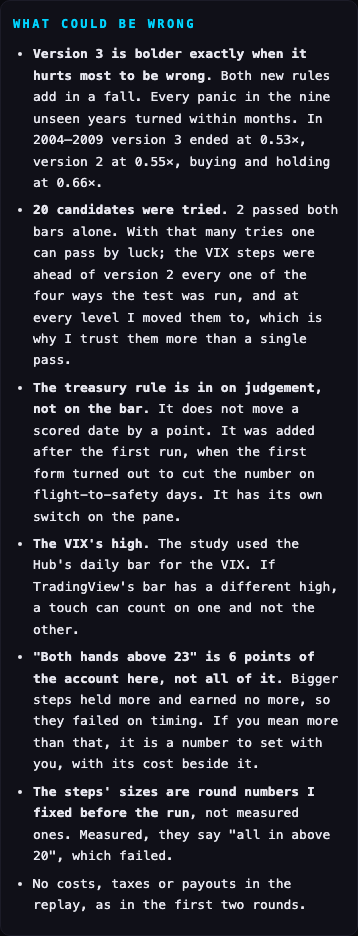
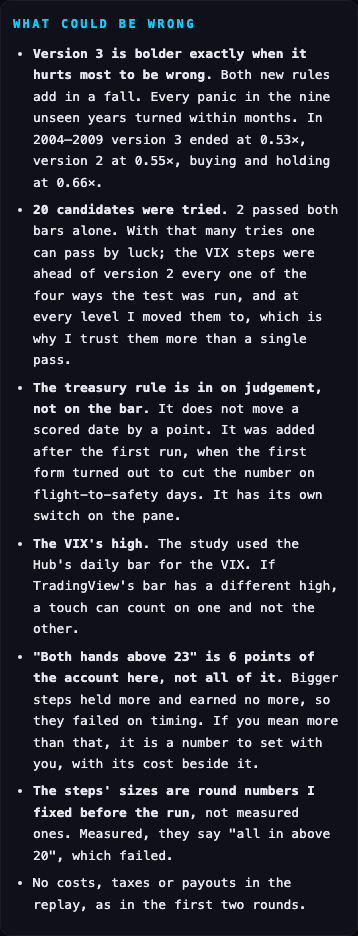
DS3 4 · a third read of the morning, one more test re-pinned to the example account, DS2's task marked superseded
A third stored read (10:01, the regular session) joins 09:05 and 09:32 on the page, in the morning's record and in the pane's proof: study and script agree on all three, and version 3 read what version 2 read at each. The page's pictures are retaken (10:02 New York).

tests/ds1.test.mjs test 20 held the live account to "over 400,000 with something held": it now expects the made-up example, with its reason beside it. DS2's installer task says at its top that version 3 supersedes it and names version 2's file by its new name, so it cannot be sent as it stood.

The whole suite, one file at a time, without the two tests that write a row: 224 run, 219 pass, 5 fail — the same five by name that fail on DS2's untouched branch this morning (two in al8, one in cp3, two in pa5; all from live data).

diff --git a/study/ds3/DS3.html b/study/ds3/DS3.html
@@ -28,7 +28,7 @@ details.sc-pagespecs{margin-top:22px;border:1px solid var(--line);border-radius:
 @media(max-width:700px){.panel{padding:14px 12px}th,td{padding:6px 5px}}
 </style></head><body>
 <h1>THE NUMBER<span class="dot"> ·</span> ROUND 3</h1>
-<div class="sub" id="stamp">the VIX counted by your own rule, depth under the 50- and 100-day, fear in treasuries read as fear · pictures taken 8 Oct 2026, 09:49 New York · on a branch, not on the live tool</div>
+<div class="sub" id="stamp">the VIX counted by your own rule, depth under the 50- and 100-day, fear in treasuries read as fear · pictures taken 8 Oct 2026, 10:02 New York · on a branch, not on the live tool</div>
 
 <section class="panel" id="p-answer"><h2>THE ANSWER FIRST</h2>
 <div class="tiles">
@@ -47,7 +47,7 @@ details.sc-pagespecs{margin-top:22px;border:1px solid var(--line);border-radius:
 <li><b>"We would want it to invest more at those lows" — it does.</b> The March 2026 low goes 95% → <b>100%</b>, the late-March 2025 low 91% → <b>95%</b>, 23 February 2026 83% → <b>90%</b>. December 2025 stays at 79%.</li>
 <li><b>On the years the rule had not seen (2018–2026), tested the way the first two rounds were tested:</b> what 1 became 3.54× → <b>3.62×</b>, worst fall −29.8% → −30.2%, invested on average 82.9% → 85.0%. It was better than version 2 in all four ways the test was run, and in 7 of the 9 years.</li>
 <li><b>What it costs.</b> It is bolder in a fall, so it does worse in a fall that does not turn: through 2008 it ended 3.1% under version 2, and it lost more in 2018 (−0.2 points) and 2022 (−1.8 points). It also moves a little more from day to day: 1.68 points against 1.55.</li>
-<li><b>This morning was not a treasury rally.</b> I measured it twice. At 09:05, before the open, treasuries were <i>down</i> 0.20% on the day and HYG's pre-market quote was down 0.25%; at 09:32, after the open, HYG was down 0.12% and the live number was back at 79%. The dip to 78 you saw at 08:41 was HYG's thin pre-market quote, not treasuries. Details below.</li>
+<li><b>This morning was not a treasury rally.</b> I measured it three times. At 09:05, before the open, treasuries were <i>down</i> 0.20% on the day and HYG's pre-market quote was down 0.25%; at 10:01, after the open, HYG was down 0.09% and the live number was back at 79%. The dip to 78 you saw at 08:41 was HYG's thin pre-market quote, not treasuries. Details below.</li>
 <li><b>Depth under the 50- and 100-day takes both lows to 100%, and is not in.</b> Against version 2 it holds about two points more on average and ends no higher, and it cost 4.4% through 2008. With the VIX counted the two lows already read 95% and 100%.</li>
 </ul></section>
 
@@ -59,11 +59,12 @@ details.sc-pagespecs{margin-top:22px;border:1px solid var(--line);border-radius:
 
 <section class="panel" id="p-morning"><h2>THIS MORNING — WHAT MOVED THE NUMBER FROM 79 TO 78</h2>
 <p>The live tool runs today's rule (version 1). Credit's own move is HYG's move over ten sessions less half the treasury fund's move over the same ten sessions. Each read below is the tool's own read of the market, kept and put through every version.</p>
-<div class="wrap"><table class=""><tr><th>when (New York, 8 Oct)</th><th class="n">HYG on the day</th><th class="n">treasuries on the day</th><th class="n">credit's own move</th><th class="n">today's rule</th><th class="n">version 2</th><th class="n">version 3</th></tr><tr><td>7 Oct, the close</td><td class="n"></td><td class="n"></td><td class="n">−0.14%</td><td class="n">79.1%</td><td class="n">74.6%</td><td class="n">74.6%</td></tr><tr><td>08:41, before the open — as you saw it</td><td class="n">about −0.4% <span class="dim">(worked back from the two figures in the brief)</span></td><td class="n"><span class="dim">not kept</span></td><td class="n">−0.43%</td><td class="n">78%</td><td class="n"><span class="dim">—</span></td><td class="n"><span class="dim">—</span></td></tr><tr><td>09:05, before the open</td><td class="n">−0.25%</td><td class="n">−0.20%</td><td class="n">−0.29%</td><td class="n">78.9%</td><td class="n">74.5%</td><td class="n">74.5%</td></tr><tr><td>09:32, after the open</td><td class="n">−0.12%</td><td class="n">−0.01%</td><td class="n">−0.26%</td><td class="n">79.1%</td><td class="n">74.5%</td><td class="n">74.5%</td></tr></table></div>
+<div class="wrap"><table class=""><tr><th>when (New York, 8 Oct)</th><th class="n">HYG on the day</th><th class="n">treasuries on the day</th><th class="n">credit's own move</th><th class="n">today's rule</th><th class="n">version 2</th><th class="n">version 3</th></tr><tr><td>7 Oct, the close</td><td class="n"></td><td class="n"></td><td class="n">−0.14%</td><td class="n">79.1%</td><td class="n">74.6%</td><td class="n">74.6%</td></tr><tr><td>08:41, before the open — as you saw it</td><td class="n">about −0.4%</td><td class="n"><span class="dim">not kept</span></td><td class="n">−0.43%</td><td class="n">78%</td><td class="n"><span class="dim">—</span></td><td class="n"><span class="dim">—</span></td></tr><tr><td>09:05, before the open</td><td class="n">−0.25%</td><td class="n">−0.20%</td><td class="n">−0.29%</td><td class="n">78.9%</td><td class="n">74.5%</td><td class="n">74.5%</td></tr><tr><td>09:32, after the open</td><td class="n">−0.12%</td><td class="n">−0.01%</td><td class="n">−0.26%</td><td class="n">79.1%</td><td class="n">74.5%</td><td class="n">74.5%</td></tr><tr><td>10:01, after the open</td><td class="n">−0.09%</td><td class="n">+0.02%</td><td class="n">−0.25%</td><td class="n">79.3%</td><td class="n">74.6%</td><td class="n">74.6%</td></tr></table></div>
+<p class="cap">The 08:41 row was not kept: its HYG figure is worked back from the two figures in the brief (credit's own move −0.43%, the treasury half +0.44). The other rows are reads I took and kept.</p>
 <ul>
-<li><b>Treasuries did not rally.</b> The treasury fund was down 0.20% at 09:05 and flat at 09:32. Over the ten sessions it is down 0.65%.</li>
+<li><b>Treasuries did not rally.</b> The treasury fund was down 0.20% at 09:05 and flat at 10:01. Over the ten sessions it is down 0.63%.</li>
 <li><b>Why the treasury half looked as if it had moved.</b> It went from +0.60 to +0.42 because the ten sessions moved on by a day. 24 Sep 2026 dropped out of them, a day treasuries fell 0.55% and HYG fell 0.27%. Losing that day took 0.27 off the treasury half and put 0.27 back on HYG's own. The two cancel.</li>
-<li><b>What was left is HYG's own quote.</b> At 09:05 it was marked 0.25% under yesterday's close; at 09:32, after the open, it was only 0.12% under. Credit's own move sits just under zero, the steepest stretch of its curve, so a quarter of a percent on a thin pre-market quote was worth 1.5 points of the account.</li>
+<li><b>What was left is HYG's own quote.</b> At 09:05 it was marked 0.25% under yesterday's close; at 10:01, after the open, it was only 0.09% under. Credit's own move sits just under zero, the steepest stretch of its curve, so a quarter of a percent on a thin pre-market quote was worth 1.5 points of the account.</li>
 <li><b>Neither new rule would have changed this morning.</b> The VIX is under 20, and treasuries are down over the ten sessions, so there is no rally to set aside. Under versions 2 and 3 the move was −0.1 of a point, because cash has been raised since 13 Aug and the swing is halved.</li>
 </ul>
 <h3>The two days where your reading is right</h3>
@@ -120,7 +121,7 @@ details.sc-pagespecs{margin-top:22px;border:1px solid var(--line);border-radius:
 </section>
 
 <section class="panel" id="p-rec"><h2>THE RECOMMENDED VERSION 3</h2>
-<div class="wrap"><table class=""><tr><th></th><th class="n">version 2 — before</th><th class="n">version 3 — after</th></tr><tr><td>late-March 2025 low — the five sessions · the low itself</td><td class="n">89.1 · 91.4</td><td class="n"><b>90.7 · 95.0</b></td></tr><tr><td>March 2026 low — the five sessions · the low itself</td><td class="n">92.9 · 94.8</td><td class="n"><b>98.6 · 100.0</b></td></tr><tr><td>26 → 30 March 2026</td><td class="n">0.0</td><td class="n"><b>0.0</b></td></tr><tr><td>23 February 2026</td><td class="n">82.9</td><td class="n"><b>90.0</b></td></tr><tr><td>December 2025 · SPY's high of 27 Jan 2026</td><td class="n">78.7 · 77.1</td><td class="n">78.8 · 77.1</td></tr><tr><td>21 July 2025 · 22 September 2025</td><td class="n">71.4 · 70.0</td><td class="n">72.0 · 70.0</td></tr><tr><td>this morning, 09:32</td><td class="n">74.5%</td><td class="n">74.5%</td></tr><tr><td>moves a day</td><td class="n">1.55</td><td class="n">1.68</td></tr><tr><td>days the number was cut on a down day, 23 Feb → 30 Mar 2026 (of 26)</td><td class="n">3 <span class="dim">(today's rule: 7)</span></td><td class="n">2</td></tr><tr class="base"><td><b>unseen 2018–2026:</b> what 1 became</td><td class="n">3.54×</td><td class="n"><b>3.62×</b></td></tr><tr><td>worst fall</td><td class="n">−29.8%</td><td class="n">−30.2%</td></tr><tr><td>invested on average</td><td class="n">82.9%</td><td class="n">85.0%</td></tr><tr><td>timing</td><td class="n">1.10</td><td class="n">1.10</td></tr><tr><td>what 1 became after a charge of 0.05% on every dollar moved</td><td class="n">3.44×</td><td class="n">3.52×</td></tr><tr><td>2004 → March 2009 (it holds 2008)</td><td class="n">0.55×</td><td class="n">0.53×</td></tr></table></div>
+<div class="wrap"><table class=""><tr><th></th><th class="n">version 2 — before</th><th class="n">version 3 — after</th></tr><tr><td>late-March 2025 low — the five sessions · the low itself</td><td class="n">89.1 · 91.4</td><td class="n"><b>90.7 · 95.0</b></td></tr><tr><td>March 2026 low — the five sessions · the low itself</td><td class="n">92.9 · 94.8</td><td class="n"><b>98.6 · 100.0</b></td></tr><tr><td>26 → 30 March 2026</td><td class="n">0.0</td><td class="n"><b>0.0</b></td></tr><tr><td>23 February 2026</td><td class="n">82.9</td><td class="n"><b>90.0</b></td></tr><tr><td>December 2025 · SPY's high of 27 Jan 2026</td><td class="n">78.7 · 77.1</td><td class="n">78.8 · 77.1</td></tr><tr><td>21 July 2025 · 22 September 2025</td><td class="n">71.4 · 70.0</td><td class="n">72.0 · 70.0</td></tr><tr><td>this morning, 10:01</td><td class="n">74.6%</td><td class="n">74.6%</td></tr><tr><td>moves a day</td><td class="n">1.55</td><td class="n">1.68</td></tr><tr><td>days the number was cut on a down day, 23 Feb → 30 Mar 2026 (of 26)</td><td class="n">3 <span class="dim">(today's rule: 7)</span></td><td class="n">2</td></tr><tr class="base"><td><b>unseen 2018–2026:</b> what 1 became</td><td class="n">3.54×</td><td class="n"><b>3.62×</b></td></tr><tr><td>worst fall</td><td class="n">−29.8%</td><td class="n">−30.2%</td></tr><tr><td>invested on average</td><td class="n">82.9%</td><td class="n">85.0%</td></tr><tr><td>timing</td><td class="n">1.10</td><td class="n">1.10</td></tr><tr><td>what 1 became after a charge of 0.05% on every dollar moved</td><td class="n">3.44×</td><td class="n">3.52×</td></tr><tr><td>2004 → March 2009 (it holds 2008)</td><td class="n">0.55×</td><td class="n">0.53×</td></tr></table></div>
 <h3>The same test three other ways</h3>
 <div class="wrap"><table class=""><tr><th>the test</th><th class="n">1 became</th><th class="n">worst fall</th><th class="n">invested</th><th class="n">timing</th></tr><tr><td>fitted to 2015, replayed 2016 on</td><td class="n">4.72× → <b>4.85×</b></td><td class="n">−29.9% → −30.2%</td><td class="n">82.5% → 84.3%</td><td class="n">1.12 → 1.13</td></tr><tr><td>fitted to 2017, replayed 2018 on (the main test)</td><td class="n">3.54× → <b>3.62×</b></td><td class="n">−29.8% → −30.2%</td><td class="n">82.9% → 85.0%</td><td class="n">1.10 → 1.10</td></tr><tr><td>fitted to 2019, replayed 2020 on</td><td class="n">2.76× → <b>2.83×</b></td><td class="n">−30.0% → −30.2%</td><td class="n">82.4% → 84.6%</td><td class="n">1.08 → 1.09</td></tr><tr><td>fitted to 2017 with 2008 left in, replayed 2018 on</td><td class="n">3.60× → <b>3.71×</b></td><td class="n">−26.4% → −28.2%</td><td class="n">82.8% → 85.3%</td><td class="n">1.12 → 1.13</td></tr></table></div>
 <p class="cap">Version 2 → version 3. Ahead in all four. In the fit that kept 2008 in, the worst fall is 1.8 deeper.</p>
@@ -140,7 +141,7 @@ details.sc-pagespecs{margin-top:22px;border:1px solid var(--line);border-radius:
 
 <section class="panel" id="p-pane"><h2>THE TRADINGVIEW PANE — VERSION 3, AND ITS PROOF</h2>
 <p>The script is written and proved; it is <b>not installed</b> and has never met TradingView's compiler. It has one switch per change — four now — so you can scroll with each on and off, and it can draw version 2 and version 1 beside it as thin lines. With version 3's two switches off it draws version 2 exactly.</p>
-<div class="wrap"><table class=""><tr><th>what was set against what</th><th>result</th></tr><tr><td>the study's sum against a hand-written replay of the script, same closes</td><td>the same reading on all <b>4,894</b> days (25 Apr 2007 → 6 Oct 2026); cash raised on the same 1,318 days</td></tr><tr><td>the script's own text, turned into a program by fixed rules</td><td>the same on all 4,894</td></tr><tr><td>the VIX's add and the treasury flag, day by day</td><td>the VIX adds on 2,051 days and a rally raised credit on 1,666; both sides agree on every one</td></tr><tr><td>version 3 with its two switches off against version 2's own script</td><td>identical on all 4,894</td></tr><tr><td>with all four off against version 1's own script</td><td>identical on all 4,894</td></tr><tr><td>the high-yield fund's payouts added back TradingView's way</td><td>within one point on 99.9% of days; worst 2.2 on 28 Nov 2007; 0.5 in the last year</td></tr><tr><td>each raise-cash threshold nudged a hair</td><td>the state would differ on at most 12 of 4,894 days, none in the last year</td></tr><tr><td>the VIX's two levels nudged by five cents</td><td>what the VIX adds would differ on 17 to 27 days, 3 at most in the last year; it moves the number 3.0 points at most on such a day</td></tr><tr><td>this morning, 09:05 New York (pre-market)</td><td>study 14.9, script 14.9; label <b>"Invested 74% · market reading 15 · cash raised"</b></td></tr><tr><td>this morning, 09:32 New York (open)</td><td>study 15.1, script 15.1; label <b>"Invested 75% · market reading 15 · cash raised"</b></td></tr></table></div>
+<div class="wrap"><table class=""><tr><th>what was set against what</th><th>result</th></tr><tr><td>the study's sum against a hand-written replay of the script, same closes</td><td>the same reading on all <b>4,894</b> days (25 Apr 2007 → 6 Oct 2026); cash raised on the same 1,318 days</td></tr><tr><td>the script's own text, turned into a program by fixed rules</td><td>the same on all 4,894</td></tr><tr><td>the VIX's add and the treasury flag, day by day</td><td>the VIX adds on 2,051 days and a rally raised credit on 1,666; both sides agree on every one</td></tr><tr><td>version 3 with its two switches off against version 2's own script</td><td>identical on all 4,894</td></tr><tr><td>with all four off against version 1's own script</td><td>identical on all 4,894</td></tr><tr><td>the high-yield fund's payouts added back TradingView's way</td><td>within one point on 99.9% of days; worst 2.2 on 28 Nov 2007; 0.5 in the last year</td></tr><tr><td>each raise-cash threshold nudged a hair</td><td>the state would differ on at most 12 of 4,894 days, none in the last year</td></tr><tr><td>the VIX's two levels nudged by five cents</td><td>what the VIX adds would differ on 17 to 27 days, 3 at most in the last year; it moves the number 3.0 points at most on such a day</td></tr><tr><td>this morning, 09:05 New York (pre-market)</td><td>study 14.9, script 14.9; label <b>"Invested 74% · market reading 15 · cash raised"</b></td></tr><tr><td>this morning, 09:32 New York (open)</td><td>study 15.1, script 15.1; label <b>"Invested 75% · market reading 15 · cash raised"</b></td></tr><tr><td>this morning, 10:01 New York (open)</td><td>study 15.5, script 15.5; label <b>"Invested 75% · market reading 16 · cash raised"</b></td></tr></table></div>
 <div class="wrap"><table class=""><tr><th>day</th><th class="n">study</th><th class="n">script</th><th class="n">% invested</th><th class="n">version 2</th><th class="n">version 1</th><th>label</th></tr><tr><td>13 Mar 2025</td><td class="n">100.0</td><td class="n">100.0</td><td class="n">100.00</td><td class="n">94.78</td><td class="n">93.34</td><td>Invested 100% · market reading 100 · VIX +20</td></tr><tr><td>28 Mar 2025</td><td class="n">83.5</td><td class="n">83.5</td><td class="n">95.05</td><td class="n">91.42</td><td class="n">85.87</td><td>Invested 95% · market reading 84 · VIX +10</td></tr><tr><td>8 Apr 2025</td><td class="n">100.0</td><td class="n">100.0</td><td class="n">100.00</td><td class="n">100.00</td><td class="n">100.00</td><td>Invested 100% · market reading 100 · VIX +20</td></tr><tr><td>21 Jul 2025</td><td class="n">6.6</td><td class="n">6.6</td><td class="n">71.98</td><td class="n">71.41</td><td class="n">71.41</td><td>Invested 72% · market reading 7</td></tr><tr><td>22 Sep 2025</td><td class="n">0.2</td><td class="n">0.2</td><td class="n">70.06</td><td class="n">70.06</td><td class="n">70.09</td><td>Invested 70% · market reading 0 · cash raised</td></tr><tr><td>11 Dec 2025</td><td class="n">25.8</td><td class="n">25.8</td><td class="n">77.74</td><td class="n">77.74</td><td class="n">85.48</td><td>Invested 78% · market reading 26 · cash raised</td></tr><tr><td>27 Jan 2026</td><td class="n">23.6</td><td class="n">23.6</td><td class="n">77.08</td><td class="n">77.08</td><td class="n">84.16</td><td>Invested 77% · market reading 24 · cash raised</td></tr><tr><td>23 Feb 2026</td><td class="n">66.7</td><td class="n">66.7</td><td class="n">90.01</td><td class="n">82.93</td><td class="n">82.09</td><td>Invested 90% · market reading 67 · VIX +10</td></tr><tr><td>26 Mar 2026</td><td class="n">100.0</td><td class="n">100.0</td><td class="n">100.00</td><td class="n">94.09</td><td class="n">91.30</td><td>Invested 100% · market reading 100 · VIX +20</td></tr><tr><td>30 Mar 2026</td><td class="n">100.0</td><td class="n">100.0</td><td class="n">100.00</td><td class="n">94.81</td><td class="n">87.73</td><td>Invested 100% · market reading 100 · VIX +20</td></tr><tr><td>29 Jul 2026</td><td class="n">87.4</td><td class="n">87.4</td><td class="n">96.22</td><td class="n">93.22</td><td class="n">86.65</td><td>Invested 96% · market reading 87 · VIX +10</td></tr><tr><td>16 Sep 2026</td><td class="n">26.7</td><td class="n">26.7</td><td class="n">78.01</td><td class="n">78.01</td><td class="n">85.06</td><td>Invested 78% · market reading 27 · cash raised</td></tr><tr><td>6 Oct 2026</td><td class="n">11.0</td><td class="n">11.0</td><td class="n">73.30</td><td class="n">73.30</td><td class="n">76.57</td><td>Invested 73% · market reading 11 · cash raised</td></tr></table></div>
 <p><b>For the installer:</b> <code>study/pn1/TASK-KIMI-DEPLOYMENT-PANE-VERSION-3.md</code>, beside the script. Not dispatched. It reads the VIX under the symbol your layout already charts. <b>One thing only TradingView can show:</b> whether its daily bar for the VIX has the same high as the Hub's. A touch counts half a step, so a different high moves the number by 1.5 points of the account at most on that day; the task tells the installer to read both and report.</p>
 </section>
@@ -171,7 +172,7 @@ details.sc-pagespecs{margin-top:22px;border:1px solid var(--line);border-radius:
 <li><b>Not pushed, not deployed.</b> The pane is not installed and has never been compiled. The installer's task is written, not sent.</li>
 <li><b>The live tool is not changed to version 3.</b> It still shows today's rule. Version 3 is a study, one file that holds its sum, and the pane. The screen's dials were not touched.</li>
 <li><b>The fear add and depth are measured, not built.</b> Both need a proper shape — an add that grows with the size of the move — before they go on a screen.</li>
-<li><b>08:41 itself was not kept.</b> My two reads are 09:05 and 09:33. The 08:41 row is worked back from the two figures in the brief.</li>
+<li><b>08:41 itself was not kept.</b> My reads are 09:05, 09:32, 10:01. The 08:41 row is worked back from the two figures in the brief.</li>
 <li>No new prices were pulled for the study: it ran on the same days the last round ran on, to 6 Oct, so that its version 2 is that round's to the last digit.</li>
 </ul></section>
 
@@ -187,7 +188,7 @@ details.sc-pagespecs{margin-top:22px;border:1px solid var(--line);border-radius:
 <p><b>The number.</b> % invested = 70 held + 30 tactical × the market reading ÷ 100. The market reading = a typical day (49.1) + the RSI part + the credit part + what the VIX adds, held to 0–100, halved while cash is raised. A point of market reading is 0.30 of a point of the account.</p>
 <p><b>The test.</b> The first study's replay, through the same code the last round used. Before scoring anything the build checks that it gives the first study's stored replay (3.54×, −30.0%, 85.0%) and that its version 2 gives the last round's stored result and dates to the last digit. Fitted on 2,160 days, replayed on 2,182. The share set at a close earns the next session's blend of SPY and QQQ; cash earns the 3-month bill.</p>
 <p><b>The VIX.</b> The Hub's daily bar: its close (from the Hub's own table where it has one) and its high. A year's place = the share of the last 252 closes under it.</p>
-<p><b>This morning.</b> Two reads of the market taken with the tool's own requests at 09:05:07 and 09:32:48 New York and kept as files, then put through every version by the same sum the study scored. No account is involved in any figure on this page.</p>
+<p><b>This morning.</b> 3 reads of the market taken with the tool's own requests at 09:05:07, 09:32:48, 10:01:15 New York and kept as files, then put through every version by the same sum the study scored. No account is involved in any figure on this page.</p>
 <p><b>The chart colours</b> were checked for colour-blind separation on the dark surface (the two lines are also named at their right end and one is dashed).</p>
 </details>
 

diff --git a/study/ds2/TASK-KIMI-DEPLOYMENT-PANE-VERSION-2.md b/study/ds2/TASK-KIMI-DEPLOYMENT-PANE-VERSION-2.md
@@ -1,5 +1,9 @@
 # TASK — version 2 of "Scintilla Deployment Pane", on the layout "Scintilla — Deployment" (7 Oct 2026, evening)
 
+> **SUPERSEDED on 8 Oct 2026 — do not dispatch this task as it stands.** Version 3 has its own task,
+> `study/pn1/TASK-KIMI-DEPLOYMENT-PANE-VERSION-3.md`. The path `study/pn1/SCINTILLA-DEPLOYMENT-PANE.pine` now holds
+> version 3; version 2's text, byte for byte, is `study/pn1/SCINTILLA-DEPLOYMENT-PANE.v2.pine` (the sha256 below is its).
+
 ## Owner's words
 Alan, 7 Oct ~20:05 New York, scrolling the pane back in time: "towards March 30th it tells us to drop right there … we would be
 selling into losses" · "right at the peak, no action" · "you raise cash towards the end of 2025 … deploy harder towards the end of
@@ -21,7 +25,7 @@ address, headless-quiet, and stop rather than improvise. One rule is tightened f
 ## The two files
 | file | what it is | sha256 |
 |---|---|---|
[3 lines of base64/hex data omitted]
 
 ## Steps
